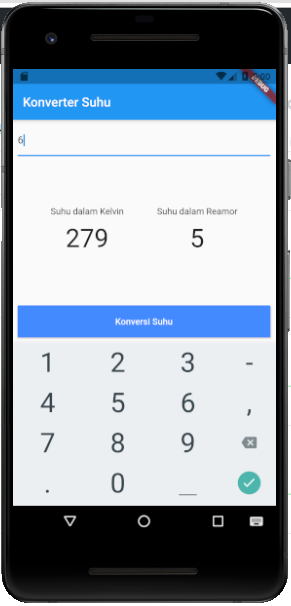
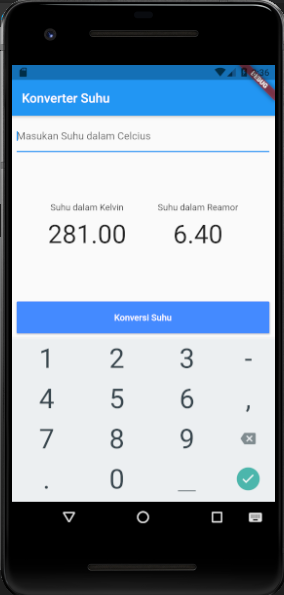
extract widget

diff --git a/lib/result.dart b/lib/result.dart
@@ -22,7 +22,7 @@ class Result extends StatelessWidget {
           children: <Widget>[
             Text("Suhu dalam Kelvin"),
             Text(
-              _kelvin.toStringAsFixed(0),
+              _kelvin.toStringAsFixed(2),
               style: TextStyle(height: 1.5, fontSize: 40),
             )
           ],
@@ -31,7 +31,7 @@ class Result extends StatelessWidget {
           children: <Widget>[
             Text("Suhu dalam Reamor"),
             Text(
-              _reamor.toStringAsFixed(0),
+              _reamor.toStringAsFixed(2),
               style: TextStyle(height: 1.5, fontSize: 40),
             )
           ],

diff --git a/lib/convert.dart b/lib/convert.dart
@@ -2,14 +2,14 @@ import 'package:flutter/material.dart';
 import 'package:flutter/services.dart';
 
 class Convert extends StatelessWidget {
-  Function konvertHandler;
+  final Function konvertHandler;
   Convert({Key key, @required this.konvertHandler});
   @override
   Widget build(BuildContext context) {
     return Container(
       width: double.infinity,
       height: 50,
-      child: MaterialButton(
+      child: RaisedButton(
         onPressed: konvertHandler,
         color: Colors.blueAccent,
         textColor: Colors.white,

diff --git a/lib/input.dart b/lib/input.dart
@@ -13,10 +13,10 @@ class Input extends StatelessWidget {
   Widget build(BuildContext context) {
     return TextFormField(
       controller: etCelcius,
-      decoration: const InputDecoration(hintText: "Masukan Suhu dalam Celcius"),
+      decoration: InputDecoration(hintText: "Masukan Suhu dalam Celcius"),
       keyboardType: TextInputType.number,
       inputFormatters: <TextInputFormatter>[
-        FilteringTextInputFormatter.digitsOnly
+        FilteringTextInputFormatter.allow(RegExp(r'[0-9]'))
       ],
     );
   }
